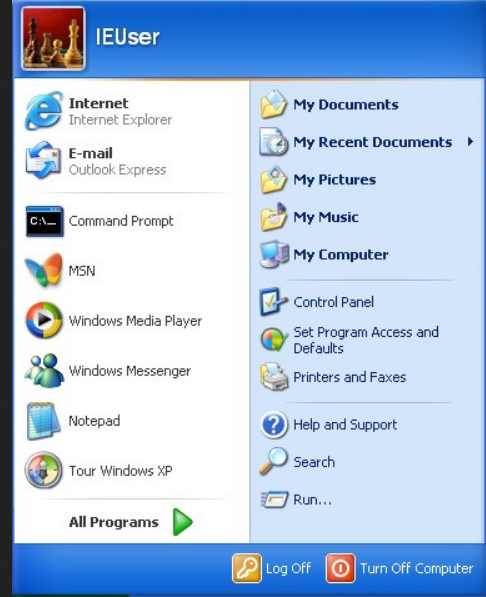
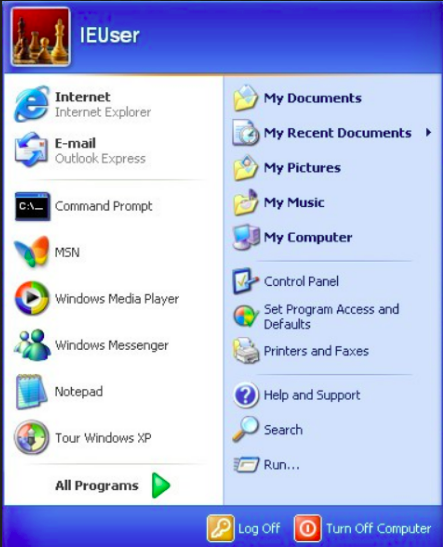
responsive

diff --git a/style.css b/style.css
@@ -6,6 +6,7 @@ body {
     background-repeat: no-repeat;
     background-size: 100% auto;
     overflow: hidden;
+    resize: none;
 }
 
 #start-btn {
@@ -13,6 +14,8 @@ body {
     position: absolute;
     left: 0;
     bottom: 0;
+    width: 6.3%;
+    height: 4%;
 }
 
 #start-btn:hover {
@@ -24,57 +27,42 @@ body {
     bottom: 0;
     right: 0;
     width: 93.9%;
-    height: 27px;
+    height: 4%;
     /* border-top-left-radius: 10px; */
     background-color: #2596be;
 }
 
 #programs {
-    display: none;
+    background-image: url("programs.png");
     position: absolute;
-    bottom: 3%;
+    background-repeat: no-repeat;
+    background-size: 100% 100%;
+    height: 72%;
+    width: 28%;
+    display: inline;
+    bottom: 4.25%;
     left: 0;
     /* crop image */
-    margin-left: -20px;
+    border: 10px;
 }
+
+
+/* 
+#programs img {
+    height: 80%;
+    width: 20%;
+} */
 
 * {
     z-index: 1;
 }
 
-#myVideo {
-    position: fixed;
-    right: 0;
-    bottom: 0;
-    min-width: 100%;
-    min-height: 100%;
-    z-index: 2;
-}
-
-#video-bg {
-    position: fixed;
-    top: 0;
-    right: 0;
-    bottom: 0;
-    left: 0;
-    overflow: hidden;
-    z-index: 2;
-}
-
-#video-bg>video {
-    top: 0;
-    left: 0;
-    width: 100%;
-    height: 100%;
-    object-fit: cover;
-}
-
 .cmd {
     position: absolute;
     left: 0;
-    bottom: 48%;
-    width: 220px;
-    height: 50px;
+    bottom: 45.3%;
+    width: 13%;
+    height: 6%;
     /* outline: 1px solid red; */
     z-index: 3;
 }

diff --git a/index.html b/index.html
@@ -17,14 +17,19 @@
         <source src="startup.mp3" type="audio/mpeg">
     </audio>
 
-    <div class="cmd" onclick="openCmd()"></div>
+
 
     <div class="cmd-window" style="display: none;">
         <div class="window-bar" id="cmd-window-bar"></div>
         <div id="close-cmd" onclick="closeCmd()"></div>
     </div>
 
-    <img src="programs.png" id="programs">
+
+    <div id="programs" style="display: none;">
+    </div>
+
+    <div class="cmd" onclick="openCmd()"></div>
+
     <img src="start.jpg" id="start-btn" alt="" onclick="start_btn_click()">
     <div class="bottom-line"></div>
 

diff --git a/script.js b/script.js
@@ -91,8 +91,8 @@ function dragElement(elmnt) {
 
 
 document.getElementById("start-btn").addEventListener("mousedown", function(e) {
-    document.getElementById("start-btn").style.width = "6.3%"
+    document.getElementById("start-btn").style.width = "6.4%"
     setTimeout(function() {
-        document.getElementById("start-btn").style.width = "6%"
+        document.getElementById("start-btn").style.width = "6.3%"
     }, 300)
 })
